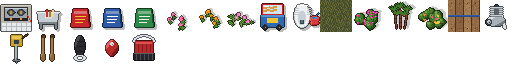
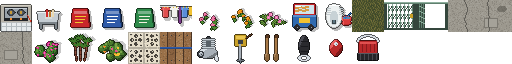
saigon: G22 hẻm and shopfront: accordion gates, alley paving, breeze blocks, laundry
New terrain: folding iron accordion gate (closed see-through door / open
pair), cracked alley concrete with three variants, breeze-block wall
(tường bông gió, see-through). New furniture: laundry line.

gen_hem.py paves the alleys, closes two thirds of the homes with gates,
hangs laundry over the sub-alleys, gives the café a breeze-block wall
and stainless tables; gen_nha_ong.py fronts are shutter or gate (3:2).
The hẻm connectivity test now counts any DOOR-flagged terrain. Seven
code-drawn sprites.

diff --git a/art/saigon/drawn/hem.py b/art/saigon/drawn/hem.py
@@ -1,0 +1,117 @@
+"""Hẻm and shopfront terrain and furniture (G22): accordion gates, alley paving,
+breeze-block walls and laundry lines.
+
+The gates are see-through, so they are drawn as bars over a "bg" of alley paving (the
+engine draws bg under fg).  The paving has three weighted variants so long alleys don't
+tile visibly.
+"""
+from draw import sprite, rgb, shade
+
+OUTLINE = 0.42
+GATE = rgb( '#5f7f6e' )          # the usual faded green paint on iron
+GATE_LIGHT = rgb( '#8fb09e' )
+GATE_DARK = rgb( '#34463c' )
+CONCRETE = rgb( '#9c988e' )
+
+
+def paving( c, variant ):
+    c.rect( 0, 0, 31, 31, CONCRETE )
+    c.noise( 0, 0, 31, 31, [ shade( CONCRETE, 0.9 ), shade( CONCRETE, 1.08 ) ], 0.35 )
+    if variant >= 1:                                   # a patch of newer concrete
+        c.rect( 4, 18, 17, 27, shade( CONCRETE, 1.1 ) )
+        c.frame( 4, 18, 17, 27, shade( CONCRETE, 0.8 ) )
+    if variant == 2:                                   # oil stain from parked bikes
+        c.ellipse( 22, 9, 5, 3, rgb( '#5a5850', 150 ) )
+    # cracks
+    x, y = c.rand.randint( 2, 28 ), 0
+    while y < 31:
+        nx, ny = x + c.rand.choice( ( -1, 0, 1 ) ), y + c.rand.randint( 2, 4 )
+        c.line( x, y, nx, ny, shade( CONCRETE, 0.62 ) )
+        x, y = nx, ny
+
+
+@sprite( 't_sgn_hem_xi_mang', 32, 32,
+         fg=[ { 'weight': 3, 'sprite': '@t_sgn_hem_xi_mang' }, { 'weight': 1, 'sprite': '@t_sgn_hem_xi_mang__patch' },
+              { 'weight': 1, 'sprite': '@t_sgn_hem_xi_mang__oil' } ] )
+def hem_xi_mang( c ):
+    paving( c, 0 )
+
+
+@sprite( 't_sgn_hem_xi_mang__patch', 32, 32 )
+def hem_patch( c ):
+    paving( c, 1 )
+
+
+@sprite( 't_sgn_hem_xi_mang__oil', 32, 32 )
+def hem_oil( c ):
+    paving( c, 2 )
+
+
+def gate_frame( c ):
+    c.rect( 0, 2, 2, 29, GATE_DARK )                    # wall-side posts
+    c.rect( 29, 2, 31, 29, GATE_DARK )
+    c.rect( 0, 2, 31, 3, GATE )                         # top track
+    c.line( 0, 2, 31, 2, GATE_LIGHT )
+    c.rect( 0, 28, 31, 29, GATE_DARK )                  # bottom rail
+
+
+@sprite( 't_sgn_cua_sat_keo_c', 32, 32, bg='@t_sgn_hem_xi_mang' )
+def gate_closed( c ):
+    # flat bars every 4 px, linked by a criss-cross scissor lattice
+    gate_frame( c )
+    for x in range( 4, 29, 4 ):
+        c.rect( x, 4, x, 27, GATE )
+        c.px( x, 4, GATE_LIGHT )
+    for x in range( 4, 25, 4 ):
+        for y0 in ( 5, 13, 21 ):
+            c.line( x, y0, x + 4, y0 + 6, GATE_LIGHT )
+            c.line( x + 4, y0, x, y0 + 6, GATE_DARK )
+    c.rect( 26, 14, 28, 17, rgb( '#c8a028' ) )          # padlock
+    c.px( 27, 13, rgb( '#7a6a3a' ) )
+
+
+@sprite( 't_sgn_cua_sat_keo_o', 32, 32, bg='@t_sgn_hem_xi_mang' )
+def gate_open( c ):
+    # folded: the bars bunch up against the left post
+    gate_frame( c )
+    for x in range( 3, 9 ):
+        c.rect( x, 4, x, 27, GATE if x % 2 else GATE_DARK )
+    for y in range( 6, 26, 5 ):
+        c.line( 3, y, 8, y + 2, GATE_LIGHT )
+
+
+@sprite( 't_sgn_tuong_bong_gio', 32, 32 )
+def tuong_bong_gio( c ):
+    # 2x2 cast blocks, each pierced with a four-petal flower pattern
+    face = rgb( '#e8e0cc' )
+    hole = rgb( '#4a463e' )
+    c.rect( 0, 0, 31, 31, face )
+    for bx in ( 0, 16 ):
+        for by in ( 0, 16 ):
+            c.frame( bx, by, bx + 15, by + 15, shade( face, 0.78 ) )          # mortar joints
+            cx, cy = bx + 8, by + 8
+            for dx, dy in ( ( 0, -4 ), ( 4, 0 ), ( 0, 4 ), ( -4, 0 ) ):         # petals
+                c.ellipse( cx + dx, cy + dy, 1.8, 1.8, hole )
+            c.ellipse( cx, cy, 1.2, 1.2, hole )
+            for dx, dy in ( ( -5, -5 ), ( 5, -5 ), ( 5, 5 ), ( -5, 5 ) ):       # corner diamonds
+                c.polygon( [ ( cx + dx, cy + dy - 1.5 ), ( cx + dx + 1.5, cy + dy ), ( cx + dx, cy + dy + 1.5 ),
+                             ( cx + dx - 1.5, cy + dy ) ], hole )
+            c.line( bx + 1, by + 1, bx + 14, by + 1, shade( face, 1.1 ) )      # lit top edge
+    c.noise( 0, 0, 31, 31, [ shade( face, 0.92 ) ], 0.15 )
+
+
+@sprite( 'f_sgn_day_phoi', 32, 32 )
+def day_phoi( c ):
+    # a wire across the alley, shirts and a sarong pegged on it
+    c.line( 0, 6, 31, 7, rgb( '#d8dcd8' ) )
+    shirts = ( ( 2, rgb( '#e05050' ) ), ( 11, rgb( '#f2f2ee' ) ), ( 21, rgb( '#5a8ed8' ) ) )
+    for x, colour in shirts:
+        c.polygon( [ ( x, 7 ), ( x + 7, 7 ), ( x + 8, 10 ), ( x + 6, 10 ), ( x + 6, 17 ), ( x + 1, 17 ),
+                     ( x + 1, 10 ), ( x - 1, 10 ) ], colour )
+        c.line( x + 1, 8, x + 1, 16, shade( colour, 1.2 ) )
+        c.px( x + 2, 7, rgb( '#f2c232' ) )                                   # pegs
+        c.px( x + 5, 7, rgb( '#f2c232' ) )
+    c.rect( 19, 7, 20, 22, rgb( '#7a3a8a' ) )                                # a hanging sarong
+    c.rect( 29, 7, 31, 14, rgb( '#f2c232' ) )                                # a child's shorts
+    c.outline( OUTLINE )
+    c.drop_shadow( 2, 3, 60 )

diff --git a/tools/saigon/gen_hem.py b/tools/saigon/gen_hem.py
@@ -23,7 +23,8 @@ CLEARING = [ 'ERASE_FURNITURE_BEFORE_PLACING_TERRAIN', 'ERASE_TRAP_BEFORE_PLACIN
 # NW quadrant variants (x 0-10, y 0-10).  Exits: east via the y=5 sub-alley at x=10,
 # south via the x=5 sub-alley at y=10.  '#' wall, '.' floor, 'a' alley, '+' door,
 # ',' outdoor courtyard, b bed, k kitchen counter, A ancestor altar, t table,
-# T/C outdoor table/stool, S shrine altar.
+# T/C outdoor table/stool, S shrine altar, l laundry line over the alley,
+# o breeze-block wall (tường bông gió).
 NW = {
     'homes': [
         '###########',
@@ -31,17 +32,17 @@ NW = {
         '#...###...#',
         '#t..###.kt#',
         '##+#####+##',
-        '#aaaaaaaaaa',
+        '#aalaaaalaa',
         '##+##a##+##',
         '#...#a#...#',
-        '#bA.#a#tA.#',
+        '#bA.#l#tA.#',
         '#kt.#a#.bk#',
         '#####a#####' ],
     'cafe_shrine': [
         '###########',
-        '#bkA#TC,TC#',
-        '#...#,,,,,#',
-        '#t..#TC,TC#',
+        '#bkA#TC,TCo',
+        '#...#,,,,,o',
+        '#t..#TC,TCo',
         '##+##,,,,,#',
         '#aaaaaaaaaa',
         '##+##a#####',
@@ -83,12 +84,15 @@ def palette():
     return {
         'type': 'palette', 'id': 'sgn_hem',
         'terrain': {
-            '_': 't_concrete_roof', '#': 't_brick_wall', '.': 't_thconc_floor', 'a': 't_concrete', '+': 't_door_c',
+            '_': 't_concrete_roof', '#': 't_brick_wall', '.': 't_thconc_floor', 'a': 't_sgn_hem_xi_mang',
+            # G22: most hẻm homes close their doorway with a folding iron gate
+            '+': [ [ 't_sgn_cua_sat_keo_c', 2 ], [ 't_door_c', 1 ] ],
             ',': 't_concrete', 'b': 't_thconc_floor', 'k': 't_thconc_floor', 'A': 't_thconc_floor',
-            't': 't_thconc_floor', 'T': 't_concrete', 'C': 't_concrete', 'S': 't_thconc_floor' },
+            't': 't_thconc_floor', 'T': 't_concrete', 'C': 't_concrete', 'S': 't_thconc_floor',
+            'o': 't_sgn_tuong_bong_gio', 'l': 't_sgn_hem_xi_mang' },
         'furniture': {
-            'b': 'f_bed', 'k': 'f_counter', 'A': 'f_sgn_ban_tho', 't': 'f_table', 'T': 'f_table',
-            'C': 'f_stool', 'S': 'f_sgn_ban_tho' },
+            'b': 'f_bed', 'k': 'f_counter', 'A': 'f_sgn_ban_tho', 't': 'f_table', 'T': 'f_sgn_ban_inox',
+            'C': 'f_stool', 'S': 'f_sgn_ban_tho', 'l': 'f_sgn_day_phoi' },
         'items': {
             'k': { 'item': 'sgn_shophouse_kitchen', 'chance': 50 },
             'b': { 'item': 'sgn_shophouse_living', 'chance': 35 },
@@ -108,7 +112,7 @@ OPEN_NEIGHBOURS = [ { 'om_terrain': 'sgn_hem', 'om_terrain_match_type': 'PREFIX'
                     { 'om_terrain': 'road', 'om_terrain_match_type': 'TYPE' } ]
 
 
-OUTDOOR = set( 'a,TC ' )
+OUTDOOR = set( 'a,TCl ' )
 
 
 def roof_of( rows ):

diff --git a/tests/saigon_mapgen_test.cpp b/tests/saigon_mapgen_test.cpp
@@ -232,7 +232,12 @@ TEST_CASE( "saigon_cities_use_shophouses", "[overmap][saigon]" )
     CHECK( dda_houses == 0 );
 }
 
-static const ter_str_id ter_t_door_c( "t_door_c" );
+
+// Any door: plain doors, the accordion iron gates of hẻm homes (G22), roller shutters.
+static bool is_door( map &m, const tripoint_bub_ms &p )
+{
+    return m.ter( p ).obj().has_flag( ter_furn_flag::TFLAG_DOOR );
+}
 
 // BFS over walkable tiles; closed doors count as traversable (they open).
 static std::set<point> reachable_through_doors( map &m, const point &start, int z )
@@ -250,7 +255,7 @@ static std::set<point> reachable_through_doors( map &m, const point &start, int 
                 continue;
             }
             const tripoint_bub_ms tq( q.x, q.y, z );
-            if( m.move_cost( tq ) <= 0 && m.ter( tq ) != ter_t_door_c.id() ) {
+            if( m.move_cost( tq ) <= 0 && !is_door( m, tq ) ) {
                 continue;
             }
             seen.insert( q );
@@ -297,7 +302,7 @@ TEST_CASE( "saigon_hem_connectivity", "[mapgen][saigon]" )
                 int doors_reached = 0;
                 for( int x = 0; x < SEEX * 2; x++ ) {
                     for( int y = 0; y < SEEY * 2; y++ ) {
-                        if( m.ter( tripoint_bub_ms( x, y, 0 ) ) == ter_t_door_c.id() ) {
+                        if( is_door( m, tripoint_bub_ms( x, y, 0 ) ) ) {
                             doors++;
                             doors_reached += reach.count( point( x, y ) );
                         }

diff --git a/tools/saigon/gen_nha_ong.py b/tools/saigon/gen_nha_ong.py
@@ -168,7 +168,9 @@ def palette():
     return {
         'type': 'palette', 'id': 'sgn_nhaong',
         'terrain': {
-            'W': 't_brick_wall', '#': 't_brick_wall', 'w': 't_window_bars', 'R': 't_rdoor_c',
+            'W': 't_brick_wall', '#': 't_brick_wall', 'w': 't_window_bars',
+            # G22: shopfronts close with a roller shutter or a folding iron gate
+            'R': [ [ 't_rdoor_c', 3 ], [ 't_sgn_cua_sat_keo_c', 2 ] ],
             '+': 't_door_c', '.': 't_thconc_floor', 't': 't_thconc_floor', 'c': 't_thconc_floor',
             'C': 't_thconc_floor', 'S': 't_thconc_floor', 'O': 't_thconc_floor', 'K': 't_concrete_roof',
             'A': 't_thconc_floor', 'F': 't_thconc_floor', 'T': 't_thconc_floor', 'b': 't_thconc_floor',

diff --git a/doc/saigon/PROGRESS.md b/doc/saigon/PROGRESS.md
@@ -147,7 +147,7 @@ Triage from contact sheets (`tools/saigon/art/contact_sheet.py`): most "to revis
 | G19 flora content fixes + forest-edge species | done | (this) | banana/papaya herbaceous (no TREE/log, no treetop, bash → leaves + plant_fibre); sgn_ mixes for shrub_forest(_dense), shrub_plains/swamp/fruit, f_region_flower/weed/plain/forest(_dense/_water); new lantana, cassava, sensitive plant (drawn). check_mod OK, [saigon] 13/13, real-game load OK |
 | G20 street kit (cột điện, bàn inox + ghế, xe bánh mì, dù, bảng hiệu, loa phường, máy lạnh) | done | (this) | 6 furniture (f_sgn_cot_dien, loa_phuong, ban_inox, xe_banh_mi, du, bang_hieu ×3 colours), mapgen/roads/street_life.json: Saigon pool for dda's 1x1_street_light (poles 60%, loudspeakers 10%, lamps 30%) and 24x24_street_lights_straight override with sidewalk life (food corner, bánh mì cart, umbrella café, A-frame sign, parked two-wheelers sgn_vg_sidewalk_parked). AC outdoor unit keeps original art (universal); placed in G21. Scene render shows them on sidewalks; check_mod OK, [saigon] 13/13, real-game load OK |
 | G21 shophouse interior (gạch bông, gạch men, Thần Tài, lu nước, võng, CRT TV, chậu kiểng) | todo | - | |
-| G22 gates and hẻm (cửa sắt kéo, cửa cuốn open, hẻm paving, tường bông gió, dây phơi) | todo | - | |
+| G22 gates and hẻm (cửa sắt kéo, cửa cuốn open, hẻm paving, tường bông gió, dây phơi) | done | (this) | furniture/terrain.json: t_sgn_cua_sat_keo_c/o (see-through accordion gate, door pair), t_sgn_hem_xi_mang (3 variants), t_sgn_tuong_bong_gio (TRANSPARENT wall); f_sgn_day_phoi. gen_hem: alleys paved, doors 2:1 gates, laundry over sub-alleys, breeze-block café wall, street tables; gen_nha_ong: fronts 3:2 shutter/gate. hẻm test counts any DOOR terrain. Roller-shutter open state deferred: dda's t_rdoor_c is a reinforced wood door only re-skinned. [saigon] 13/13, real-game load OK |
 | G23 kitchen and drink items | todo | - | |
 | G24 household and medicine items | todo | - | |
 | G25 work gear, trade, street dishes | todo | - | |

diff --git a/doc/saigon/art/manifest_summary.md b/doc/saigon/art/manifest_summary.md
@@ -1,10 +1,10 @@
 # Saigon art manifest: summary
 
-Generated by `tools/saigon/art_manifest.py`; full list in `manifest.csv` (2643 ids).
+Generated by `tools/saigon/art_manifest.py`; full list in `manifest.csv` (2648 ids).
 
 | Tier | furniture | item | monster | overmap_terrain | terrain | vehicle_part | total |
 |---|---|---|---|---|---|---|---|
-| T1 | 29 (10 mod / 19 dda) | 60 (8 mod / 52 dda) | 13 (4 mod / 9 dda) | 24 (24 mod / 0 dda) | 54 (15 mod / 39 dda) | 38 (7 mod / 31 dda) | 218 |
+| T1 | 30 (11 mod / 19 dda) | 60 (8 mod / 52 dda) | 13 (4 mod / 9 dda) | 24 (24 mod / 0 dda) | 58 (19 mod / 39 dda) | 38 (7 mod / 31 dda) | 223 |
 | T2 | 0 (0 mod / 0 dda) | 60 (40 mod / 20 dda) | 0 (0 mod / 0 dda) | 0 (0 mod / 0 dda) | 0 (0 mod / 0 dda) | 0 (0 mod / 0 dda) | 60 |
 | T3 | 0 (0 mod / 0 dda) | 2365 (0 mod / 2365 dda) | 0 (0 mod / 0 dda) | 0 (0 mod / 0 dda) | 0 (0 mod / 0 dda) | 0 (0 mod / 0 dda) | 2365 |
 
